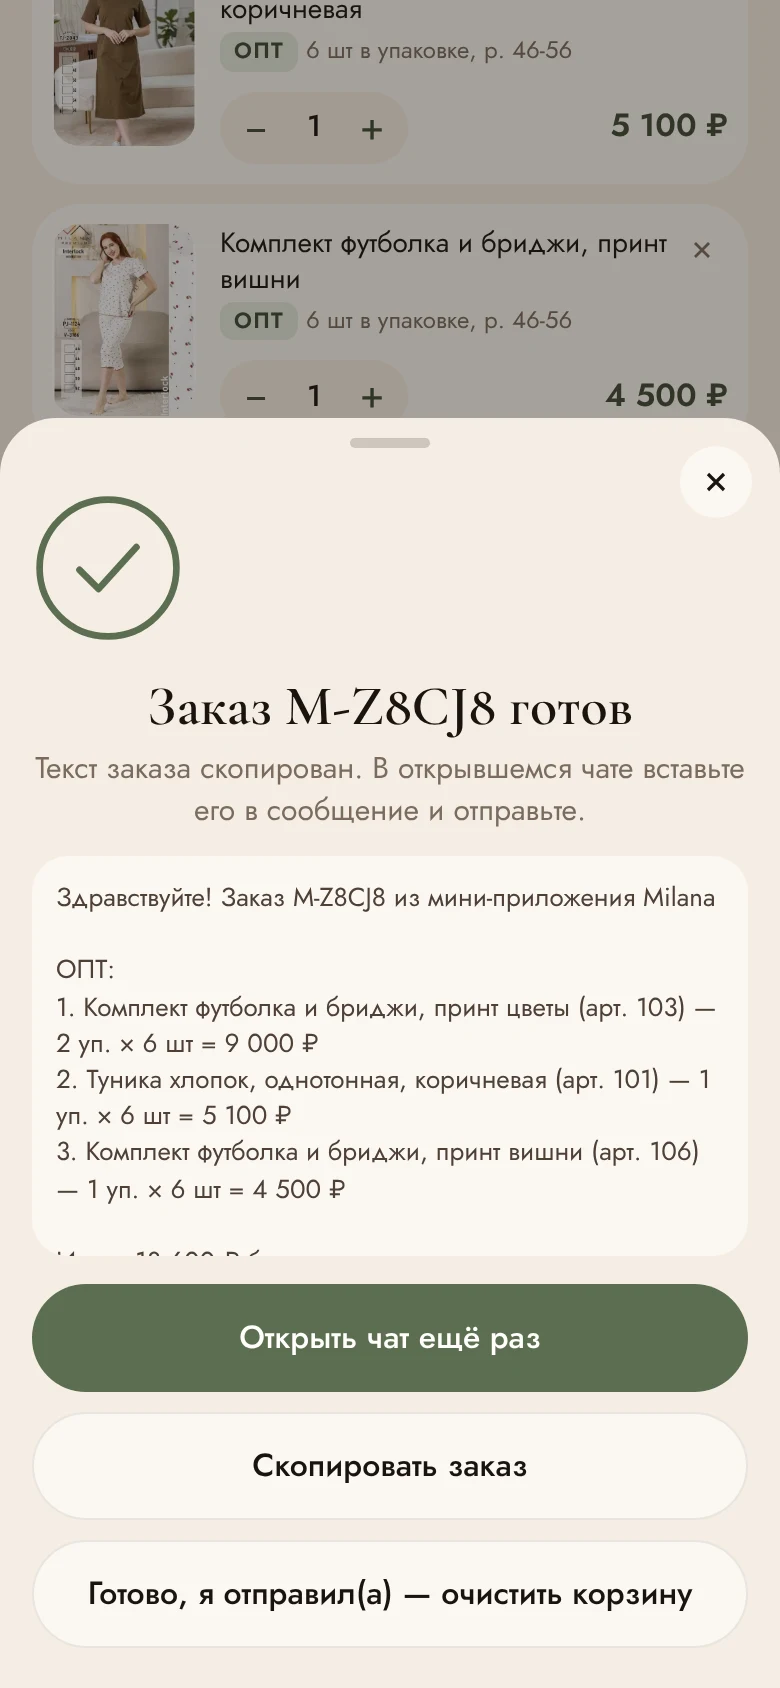
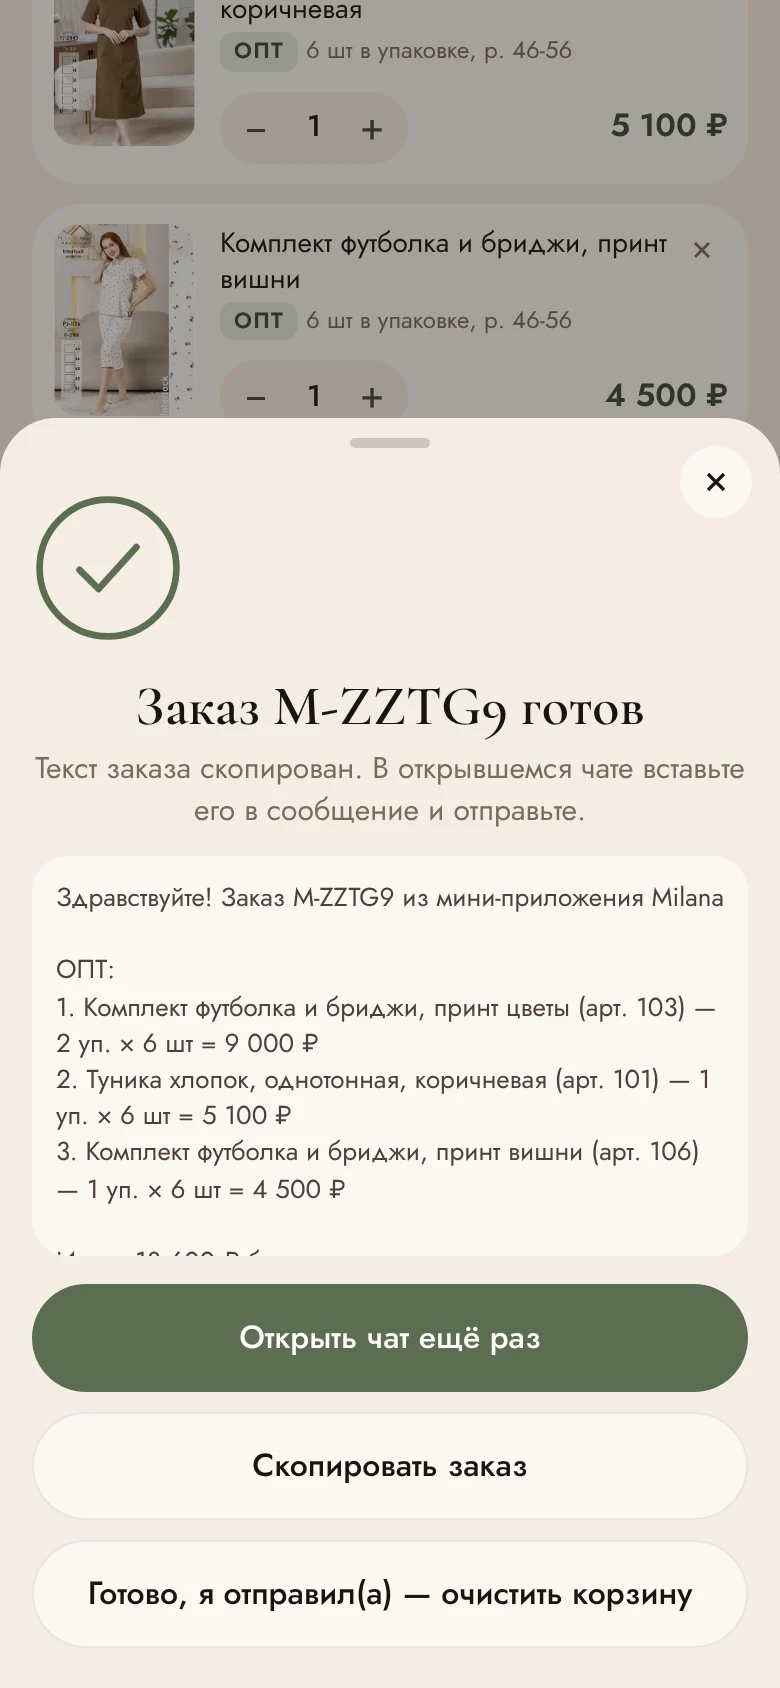
fix(app): restore hero subtitle (sed & bug); video: status bar, clipped screen, clean bottom menu
Claude-Session: https://claude.ai/code/session_01Ry1j9MfhvWZawRkyYdF5mn

Changed region(s): [[0.1846, 0.4005, 0.8308, 0.4313], [0.4308, 0.5237, 0.9231, 0.5545]]

diff --git a/app/brand-tools/appvideo/scene.html b/app/brand-tools/appvideo/scene.html
@@ -22,14 +22,17 @@ html,body{width:1080px;height:1920px;overflow:hidden;background:var(--bg);font-f
 #cap h2{font-size:76px;line-height:1}
 #cap p{font-size:36px;color:var(--muted);margin-top:14px}
 /* телефон */
-#phone{position:absolute;left:210px;top:400px;width:660px;height:1400px;border-radius:96px;background:#1C1714;padding:20px;box-shadow:0 60px 120px -50px rgba(40,28,18,.75),inset 0 0 0 3px #3A322C;transform-origin:50% 0}
-#screen{position:relative;width:620px;height:1360px;border-radius:78px;overflow:hidden;background:var(--bg)}
+#phone{position:absolute;left:210px;top:380px;width:660px;height:1446px;border-radius:96px;background:#1C1714;padding:20px;box-shadow:0 60px 120px -50px rgba(40,28,18,.75),inset 0 0 0 3px #3A322C;transform-origin:50% 0}
+#screen{position:relative;width:620px;height:1406px;border-radius:78px;overflow:hidden;background:var(--bg)}
 #island{position:absolute;top:22px;left:50%;transform:translateX(-50%);width:190px;height:54px;border-radius:30px;background:#000;z-index:20}
 .tgbar{position:absolute;top:96px;left:22px;right:22px;display:flex;justify-content:space-between;z-index:15}
 .tgbar span{height:54px;border-radius:27px;background:rgba(40,32,26,.55);color:#fff;font-size:24px;display:flex;align-items:center;gap:10px;padding:0 22px;backdrop-filter:blur(6px)}
-.shot{position:absolute;left:0;top:64px;width:620px;will-change:transform,opacity}
+#vp{position:absolute;left:0;top:64px;width:620px;height:1342px;overflow:hidden}
+#sbar{position:absolute;left:0;top:0;width:620px;height:64px;background:#F5EDE3;z-index:18;display:flex;align-items:center;justify-content:space-between;padding:8px 48px 0;font-size:24px;font-weight:600;color:#1A1410}
+.shot{position:absolute;left:0;top:0;width:620px;will-change:transform,opacity}
 .shot.full{height:1342px;object-fit:cover;object-position:top}
-#tabbar{position:absolute;left:0;top:1185px;width:620px;z-index:10}
+#tabbar,#tabbar2{position:absolute;left:0;top:1167px;width:620px;z-index:10}
+#botmask{position:absolute;left:0;right:0;top:1150px;bottom:0;z-index:9;background:linear-gradient(to bottom,rgba(245,237,227,0) 0,#F5EDE3 70px)}
 #tap{position:absolute;width:110px;height:110px;margin:-55px 0 0 -55px;border-radius:50%;background:rgba(61,74,53,.28);border:4px solid rgba(255,255,255,.9);z-index:30;pointer-events:none}
 /* финал */
 #cta{position:absolute;left:70px;right:70px;top:1010px;padding:50px;border-radius:56px;background:var(--card);box-shadow:0 40px 80px -40px rgba(61,45,30,.55);display:flex;gap:44px;align-items:center}
@@ -44,16 +47,21 @@ html,body{width:1080px;height:1920px;overflow:hidden;background:var(--bg);font-f
   <div id="cap"><h2 class="serif" id="capH"></h2><p id="capP"></p></div>
   <div id="phone"><div id="screen">
     <div id="island"></div>
+    <div id="sbar"><span>9:41</span><span>●●●● &nbsp;▮</span></div>
+    <div id="vp">
     
     <img class="shot full" id="sLoader" src="shots/1-loader.webp">
     <img class="shot full" id="sHome" src="shots/2-home.webp">
     <img class="shot full" id="sHome2" src="shots/3-home2.webp">
     <img class="shot" id="sCat" src="shots/5-catalog-full.webp">
-    <img id="tabbar" src="shots/6-tabbar.webp">
+    <div id="botmask"></div>
+    <img id="tabbar" src="shots/6-tabbar.png">
+    <img id="tabbar2" src="shots/6-tabbar-cart.png">
     <img class="shot full" id="sProd" src="shots/7-product.webp">
     <img class="shot full" id="sCart" src="shots/8-cart.webp">
     <img class="shot full" id="sCart2" src="shots/9-cart-bottom.webp">
     <img class="shot full" id="sDone" src="shots/10-done.webp">
+    </div>
     <div id="tap"></div>
   </div></div>
   <div id="cta"><img class="qr" src="qr-app.png" alt=""><div><h3 class="serif">Откройте каталог</h3><p>Наведите камеру на QR-код или напишите нам:</p><p style="white-space:nowrap;margin-top:8px"><b id="contact"></b></p></div></div>
@@ -91,7 +99,7 @@ window.render=function(t){
   const ic=prog(t,.1,.8);$('icon').style.transform=`scale(${ic?back(ic):0}) rotate(${(1-eo(ic))*-12}deg)`;
   // телефон: въезд снизу, в финале уменьшается вверх
   const pin=eo(prog(t,h1-.6,h1+.4));const [f0]=S(6);const fin=eio(prog(t,f0,f0+.9));
-  $('phone').style.transform=`translateY(${(1-pin)*1700 - fin*330}px) scale(${1-fin*.42})`;
+  $('phone').style.transform=`translateY(${(1-pin)*1700 - fin*310}px) scale(${1-fin*.42})`;
   caption(t);
   // 1. загрузка → главная
   const [a1,b1]=S(1);show('sLoader',t<a1+1.1?1:0);show('sHome',eo(prog(t,a1+.9,a1+1.4)));
@@ -100,13 +108,13 @@ window.render=function(t){
   // 2. каталог: тап по вкладке, лента прокручивается
   const [a2,b2]=S(2);tap(t,a2+.1,BOX.tabCatalog);
   const cIn=eo(prog(t,a2+.4,a2+.8));const scroll=eio(prog(t,a2+1.2,b2-.3))*2600;
-  show('sCat',cIn,-scroll);$('tabbar').style.opacity=(t>=a1+.9&&t<S(3)[0]+.3)?1:0;
+  show('sCat',cIn,-scroll);const tbOn=(t>=a1+.9&&t<S(3)[0]+.3), tb2=(t>=S(4)[0]&&t<S(5)[0]);$('tabbar').style.opacity=tbOn?1:0;$('tabbar2').style.opacity=tb2?1:0;$('botmask').style.opacity=(tbOn||tb2)?1:0;
   // 3. товар: лист снизу, тап «Добавить упаковку»
-  const [a3,b3]=S(3);const pr=eo(prog(t,a3+.2,a3+.75));show('sProd',pr>0?1:0,(1-pr)*1342);tap(t,a3+2.2,BOX.addBtn);
+  const [a3,b3]=S(3);const pr=eo(prog(t,a3+.2,a3+.75));show('sProd',pr,(1-pr)*60);tap(t,a3+2.2,BOX.addBtn);
   // 4. корзина
   const [a4,b4]=S(4);const ca=eo(prog(t,a4,a4+.5));show('sCart',ca);const cb=eio(prog(t,a4+1.8,a4+2.6));show('sCart2',cb);tap(t,b4-.75,BOX.orderBtn);
   // 5. готово
-  const [a5,b5]=S(5);const dn=eo(prog(t,a5,a5+.6));show('sDone',dn>0?1:0,(1-dn)*1342);
+  const [a5,b5]=S(5);const dn=eo(prog(t,a5,a5+.6));show('sDone',dn,(1-dn)*60);
   if(t>=a5){['sCart','sCart2'].forEach(id=>$(id).style.opacity=1)}
   // 6. финал
   const cta=eo(prog(t,f0+.5,f0+1.2));const el=$('cta');el.style.opacity=cta;el.style.transform=`translateY(${(1-cta)*120}px)`;

diff --git a/app/brand-tools/appvideo/capture.js b/app/brand-tools/appvideo/capture.js
@@ -26,7 +26,10 @@ const fs = require('fs'), D = __dirname + '/shots/';
   await p.addStyleTag({ content: '.tabbar{display:none!important}' });
   await p.screenshot({ path: D + '5-catalog-full.png', fullPage: true });
   await p.addStyleTag({ content: '.tabbar{display:grid!important}' });
-  await p.screenshot({ path: D + '6-tabbar.png', clip: { x: 0, y: 844 - 110, width: 390, height: 110 } });
+  // чистое нижнее меню без содержимого страницы под ним (прозрачный фон)
+  await p.addStyleTag({ content: 'html,body{background:transparent!important}.app{visibility:hidden!important}' });
+  await p.screenshot({ path: D + '6-tabbar.png', clip: { x: 0, y: 844 - 110, width: 390, height: 110 }, omitBackground: true });
+  await p.addStyleTag({ content: 'html,body{background:#F5EDE3!important}.app{visibility:visible!important}' });
   await bb('#grid .card >> nth=2', 'card');
   await p.click('#grid .card >> nth=2'); await p.waitForTimeout(700);
   await bb('#addSheet', 'addBtn');
@@ -36,6 +39,9 @@ const fs = require('fs'), D = __dirname + '/shots/';
   await p.click('#grid .card >> nth=5 >> .add'); await p.waitForTimeout(2400);
   await p.click('.tab[data-tab="cart"]'); await p.waitForTimeout(600);
   await p.screenshot({ path: D + '8-cart.png' });
+  await p.addStyleTag({ content: 'html,body{background:transparent!important}.app{visibility:hidden!important}' });
+  await p.screenshot({ path: D + '6-tabbar-cart.png', clip: { x: 0, y: 844 - 110, width: 390, height: 110 }, omitBackground: true });
+  await p.addStyleTag({ content: 'html,body{background:#F5EDE3!important}.app{visibility:visible!important}' });
   await p.evaluate(() => scrollTo(0, document.body.scrollHeight)); await p.waitForTimeout(400);
   await bb('[data-act="order"]', 'orderBtn');
   await p.screenshot({ path: D + '9-cart-bottom.png' });

diff --git a/app/index.html b/app/index.html
@@ -260,7 +260,7 @@ a{color:inherit}
       <span class="arrow"><svg width="18" height="18" viewBox="0 0 24 24" fill="none" stroke="currentColor" stroke-width="2.4"><path d="M7 17 17 7M9 7h8v8"/></svg></span>
       <span class="fan" id="fan"></span>
       <h1>Хлопок из&nbsp;Узбекистана</h1>
-      <p id="heroSub">Пижамы, сорочки, туники и&nbsp;халаты упаковками поупаковками по&nbsp;3–6&nbsp;шт, в&nbsp;каждой — размерный ряд.nbsp;6упаковками по&nbsp;3–6&nbsp;шт, в&nbsp;каждой — размерный ряд.nbsp;шт, вупаковками по&nbsp;3–6&nbsp;шт, в&nbsp;каждой — размерный ряд.nbsp;каждой — размерный ряд.</p>
+      <p id="heroSub">Пижамы, сорочки, туники и&nbsp;халаты упаковками по&nbsp;6&nbsp;шт, в&nbsp;каждой — размерный ряд.</p>
     </button>
 
     <div class="grid2" id="tiles"></div>
